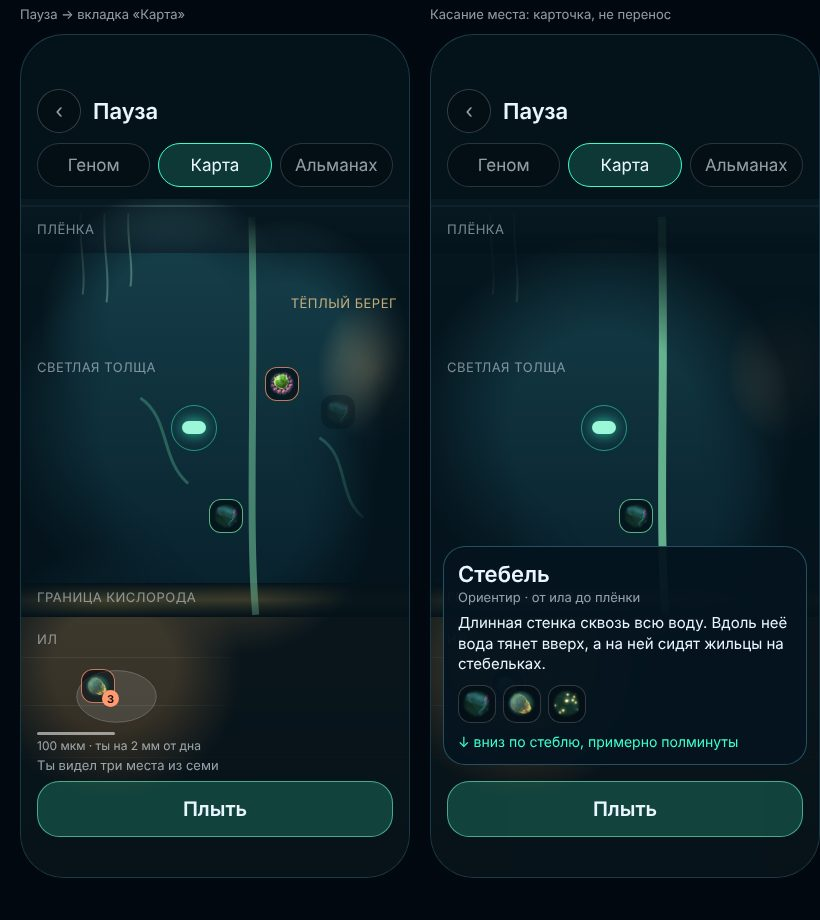
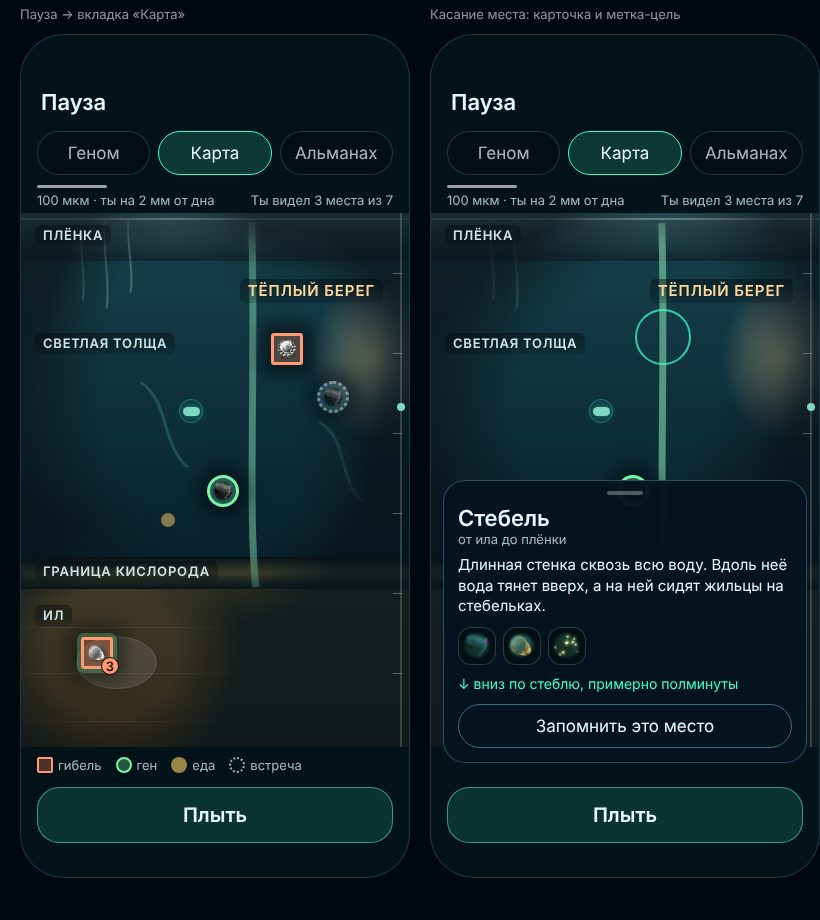
Книга: карта после критики UX — отметки, туман, карточка, метка-цель
Claude-Session: https://claude.ai/code/session_019VbyzHD18e16rE1zTBuj4N

diff --git a/proby/zaplyv/kniga/ekrany.md b/proby/zaplyv/kniga/ekrany.md
@@ -162,33 +162,37 @@
 
 ![Экран гибели сейчас](img/gibel.jpg)
 
-## Пауза с вкладками и карта пруда (Э17–Э19) — спецификация для стройки
+## Пауза с вкладками и карта пруда (Э17–Э20) — спецификация для стройки
 
-Роман, 24.11: «карта — да, нужно понять, как её грамотно встроить, наверное в паузе вкладка карта — с дизайнерами». Запись мира — **К1**, ориентиры — **К3**, тёплый берег — **К4**.
+Роман, 24.11: «карта — да, нужно понять, как её грамотно встроить, наверное в паузе вкладка карта — с дизайнерами»; «на критику профессионалу карту отдайте и внедрите». Критику прошли 24.11 у стороннего UX и гейм-дизайнера мобильных игр, его правки внесены ниже и помечены 🔎. Запись мира — **К1**, ориентиры — **К3**, тёплый берег — **К4**.
 
 ![Макет: пауза с вкладками и карта](img/karta_maket.jpg)
 
-**Э17 Пауза — один экран с тремя вкладками.** Пауза перестаёт быть окошком поверх игры и становится экраном на весь телефон: тот же тёмный фон воды, мир под ним замедляется и размывается, а не щёлкает. Сверху одна строка: ‹ назад, слово «Пауза» и справка не нужна. Под ней три вкладки одной формы, высота 44, в один ряд, без прокрутки: **Геном · Карта · Альманах**. Открывается всегда та, с которой ты ушёл в прошлый раз, в первый заплыв — Карта. Внизу всегда одна главная кнопка «Плыть» высотой 56: из любой вкладки один палец возвращает в игру. Переход между вкладками — сдвиг за 0,2 с, свайп влево-вправо работает тоже, прокрутка внутри вкладки сохраняется.
+**Э17 Пауза — один экран с тремя вкладками.** Пауза перестаёт быть окошком поверх игры и становится экраном на весь телефон: тот же тёмный фон воды, мир под ним замедляется и размывается, а не щёлкает. Сверху слово «Пауза». 🔎 Кнопки «‹» нет совсем: из паузы один выход — «Плыть» внизу и смахивание вниз, чтобы в опасную минуту нельзя было промахнуться в главное меню. Три вкладки одной формы, высота 44, в один ряд, без прокрутки: **Геном · Карта · Альманах**. Открывается та, с которой ты ушёл в прошлый раз. 🔎 В самый первый заплыв открывается **Геном**, а не Карта: карта в первый раз пуста, и пустым экраном знакомиться нельзя. Карта становится вкладкой по умолчанию после первой гибели, когда на ней появилась первая отметка. Внизу всегда одна главная кнопка «Плыть» высотой 56. Переход между вкладками — сдвиг за 0,2 с, свайп влево-вправо работает тоже, прокрутка внутри вкладки сохраняется.
 
-**Э18 Карта — пруд в разрезе, стоя.** Вертикальный телефон и есть разрез пруда, поэтому карта не поворачивается и не уменьшается: она занимает экран целиком сверху донизу.
+**Э18 Карта — пруд в разрезе, стоя.** Вертикальный телефон и есть разрез пруда, поэтому карта не поворачивается, не двигается пальцем и не масштабируется: она занимает экран целиком сверху донизу.
 
-- Сверху вниз четыре слоя своим цветом, полосами разной высоты: **плёнка** (светлая нитка у самого верха, бахрома корней ряски вниз), **светлая толща** (самая высокая полоса, в ней нити водорослей), **граница кислорода** (тонкая дымка, где собираются магнитные и где кислорода ровно столько, сколько нужно), **ил** слоями.
+- Сверху вниз четыре слоя своим цветом, полосами разной высоты: **плёнка** (светлая нитка у самого верха, бахрома корней ряски вниз), **светлая толща** (самая высокая полоса, в ней нити водорослей), **граница кислорода** (тонкая дымка, где кислорода ровно столько, сколько нужно), **ил** слоями. 🔎 Новых цветов карта не вводит: ил — затемнённый жёлтый «энергии» из общей палитры.
 - Слева направо: **заросли у берега**, открытая вода, **тёплый берег** светлым пятном на краю (К4) — цель видна с первой минуты.
-- **Ориентиры (К3) нарисованы, а не подписаны:** стебель от ила до плёнки, бахрома корней, большая песчинка. Имя всплывает только по касанию.
-- **Где ты сейчас:** твоя клетка своей моделью, маленькая, с тихим кольцом-пульсом 2 с. Над ней не точка, а сама клетка, чтобы узнавалась.
-- **Туман:** всё, где ты не был, затянуто дымкой того же цвета, что фон, сквозь неё угадывается силуэт слоя. Проплыл — дымка расходится мягким пятном за 0,3 с, границы неровные, круги не рисуем.
-- **Масштаб:** снизу слева линия и подпись «100 мкм», как в Альманахе. Рядом высота: «ты на 2 мм от дна».
-- Карта не возит игрока: в ней нет кнопки «плыть сюда». Касание места даёт короткую карточку той же формы, что в Альманахе: имя, одна строка «что там», значки жителей, и строка-направление «вниз по стеблю, примерно полминуты». Дорога остаётся работой заплыва.
+- **Ориентиры (К3) нарисованы, а не подписаны:** стебель от ила до плёнки, бахрома корней, большая песчинка. Имя всплывает только по касанию. 🔎 Нити водорослей приглушить до альфы 0,2 и оставить две: они спорят по яркости с отметками и стеблем.
+- **Где ты сейчас:** твоя клетка своей моделью. 🔎 Кольцо-пульс 24 пункта, яркость на треть ниже прежней: «ты здесь» — не новость, и оно не должно быть самым ярким пятном экрана. 🔎 Самой яркой на карте при открытии делается последняя отметка этого заплыва, она подсвечивается 1,2 с.
+- 🔎 **Туман различим на солнце.** Непройденное отличается не яркостью, а тремя свойствами сразу: насыщенность ×0,35, яркость −18 %, поверх зерно 6–8 % и размытие 4. Край, где туман разошёлся, — светлая линия 1 с альфой 0,25. Проверять замером: «открыто» к «закрыто» не меньше 1,6:1 по яркости. Расходится туман мягким пятном за 0,3 с, круги не рисуем.
+- 🔎 **Подписи слоёв** — #CFE3E6, 13 полужирный, разрядка 0,06em, альфа не ниже 0,78, под текстом тёмная плашка-градиент альфы 0,35 высотой 20, а не тень. **«Тёплый берег»** — #FFD79A на подложке, размер 15, контраст не ниже 4,5:1. Контраст мерить на самом светлом пикселе, который может попасть под подпись.
+- 🔎 **Шапка вместо подвала:** строки «100 мкм», «ты на 2 мм от дна» и «Ты видел три места из семи» стоят под вкладками, где их не закрывает карточка. По правому краю — линейка глубины шириной 2 с насечками, меткой игрока и тонкими рисками на высоте отметок.
+- 🔎 **Safari:** высота считается в `dvh`, не `vh`, снизу 34 под полоску жестов, иначе «Плыть» уедет под адресную строку.
 
-**Э19 Отметки: карта помнит твои заплывы.** Это то, из-за чего карту открывают. Отметки стоят на своих местах между заплывами и ничего не рассказывают словами, только значком:
+**Э19 Отметки: карта помнит твои заплывы.** Это то, из-за чего карту открывают, поэтому отметка — самый заметный объект карты, а не фон.
 
-- **где погиб** — значок того, кто убил, в красно-оранжевой рамке; цифра, если это случилось там не раз;
-- **где нашёл чужой ген** — значок гена в зелёной рамке (трубочка, фаг);
-- **где была еда** — тусклая точка цвета еды, гаснет к следующему заплыву: место помнится, а еда каждый раз новая (К2);
-- **кого встретил** — значок существа без рамки, бледный.
+- 🔎 **Вид отметки:** цель касания 44, видимая часть 32, рамка 3. Внутри не цветной кадр, а обесцвеченный силуэт существа, светлее воды (серый 0,9) на подложке цвета смысла с альфой 0,25, под отметкой тёмное гало, иначе на светлом иле она пропадёт. Цифра слипшихся — кружок 18, шрифт 13 с тёмной обводкой.
+- 🔎 **Смысл несёт не только цвет, но и форма** (красную от зелёной не отличает каждый двенадцатый мужчина): **где погиб** — острые углы, красно-оранжевый, значок убийцы; **где нашёл чужой ген** — круглая, зелёная, значок гена; **где была еда** — точка без рамки, гаснет к следующему заплыву (К2); **кого встретил** — пунктир, бледная.
+- 🔎 **Легенда** одной строкой под картой, высота 24, шрифт 13: четыре значка по 16 со словом — гибель · ген · еда · встреча.
+- Касание отметки открывает карточку. 🔎 Если отметок на месте больше трёх, они слипаются в одну с цифрой, и касание открывает не карточку, а список из трёх строк по 44.
+- 🔎 Отклик на касание — значок увеличивается до 1,06 за 90 мс: в Safari дрожь телефона нам недоступна, а без отклика на солнце не понять, попал ты или нет.
 
-Касание отметки открывает ту же карточку, что в Альманахе, и из неё есть переход в Альманах целиком. Больше трёх отметок на одно место слипаются в одну с цифрой.
+**Э20 Карточка места и метка-цель.** 🔎 Карточка больше не закрывает собой карту: высота не больше 45 % экрана, внутри прокрутка, сверху ручка 36×4, закрывается смахиванием вниз и касанием мимо, до кнопки «Плыть» зазор 24. При открытии карта доезжает так, чтобы задетое место осталось видно сверху, и обводит его кольцом. Внутри: имя, строка «от ила до плёнки» (слово «ориентир» убрано — игрок и так по нему попал), одна строка «что там», значки жителей, строка-направление «вниз по стеблю, примерно полминуты».
 
-**Чего на карте нет (наше).** Сетки, компаса, процентов открытия, миникарты в заплыве. Счёт открытого — одной строкой словами внизу: «Ты видел три места из семи».
+🔎 **Метка-цель — то, ради чего карту открывают второй раз.** Второй строкой в карточке кнопка 44 «Запомнить это место». Метка одна за раз. В заплыве она даёт у края экрана тонкую стрелку в свою сторону, 24 пункта, альфа 0,4, и расстояние «≈0,4 мм». Доплыл — стрелка гаснет сама мягким импульсом. Переноса по карте по-прежнему нет: дорога остаётся работой заплыва, но держать её в голове больше не нужно.
 
-**Приёмка.** Та же, что у Альманаха: касание 44 с зазором 8, контраст замерен, безопасные зоны, возврат свайпом с сохранением прокрутки, один палец, отклик меньше 100 мс, карточка меньше 0,3 с, единый стиль с геномом и меню, понятно без объяснений. Кадры всех вкладок и карты с туманом и отметками — до слияния.
+**Чего на карте нет (наше).** Сетки, компаса, процентов открытия, миникарты в заплыве, кнопки «плыть сюда», зума и перетаскивания. Счёт открытого — словами. 🔎 Когда отметок станет больше двенадцати, добавим три чипа-фильтра по 44 («гибель · гены · встречи»), раньше не надо.
+
+**Приёмка.** Та же, что у Альманаха, плюс замеры: контраст подписей не ниже 4,5:1, «открыто» к «закрыто» не ниже 1,6:1, цели касания 44 с зазором 8, карточка не перекрывает метку игрока, «Плыть» не уезжает под адресную строку Safari. Кадры всех вкладок, карты с туманом и отметками и карточки с меткой-целью — до слияния.
